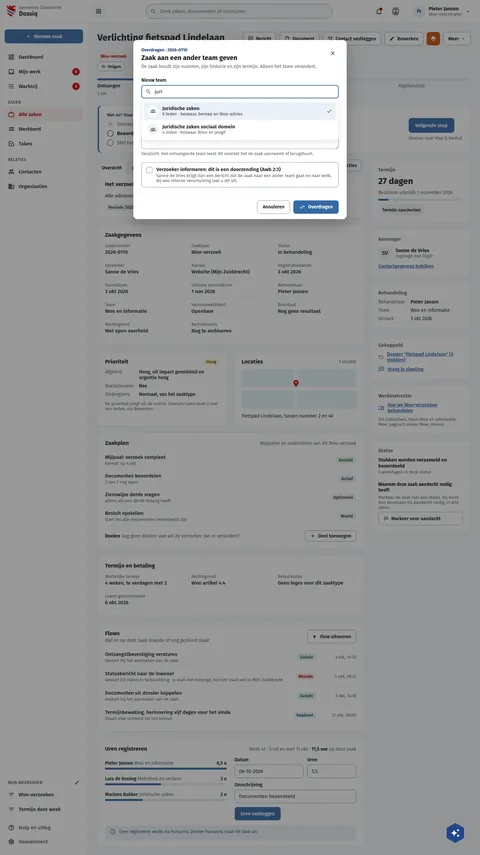
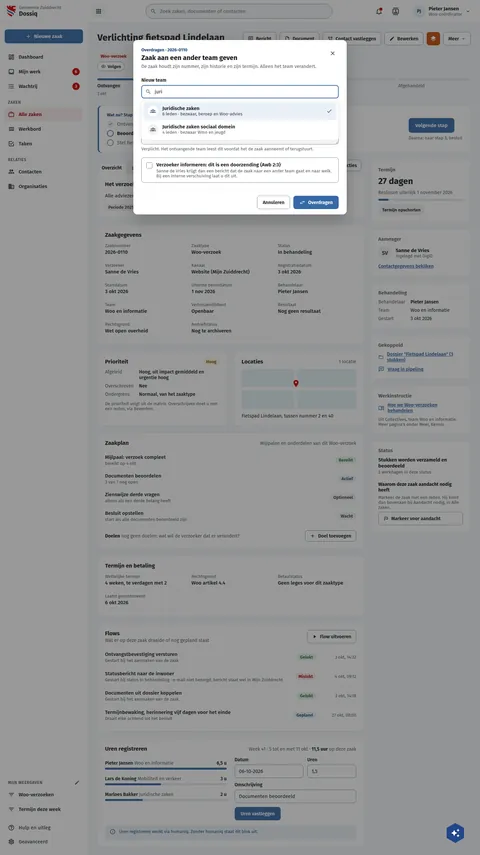
fix(screens): DqOverdragen's reason sits on the boards' normal leading
Assisted-by: ClaudeCode:claude-opus-5-5

Changed region(s): [[0.2812, 0.152, 0.7188, 0.2737]]

diff --git a/preview/screens/boards/DqOverdragen.html b/preview/screens/boards/DqOverdragen.html
@@ -331,7 +331,7 @@ a{color:var(--sc-primary, #3669a5)}a:hover{color:var(--sc-primary-deep, #234a78)
           </ul></span>
           <span style="font-size: 13px; color: var(--sc-work-muted, #5e6168)">Nu bij Woo en informatie. Het nieuwe team kiest zelf een behandelaar.</span>
         </div>
-        <div style="display: flex; flex-direction: column; gap: 6px"><label for="ov-reden" style="font-size: 14px; font-weight: 600">Waarom de zaak verhuist</label><textarea id="ov-reden" rows="3" required style="box-sizing: border-box; width: 100%; padding: 10px 12px; border: 1px solid var(--sc-work-field, #828a95); border-radius: 8px; font: 400 15px var(--sc-font, 'Fira Sans'), sans-serif; color: var(--sc-work-ink, #1b1c1d); line-height: 1.5; resize: vertical">De mail van de aannemer raakt een lopend geschil over de planning. Juridische zaken beoordeelt die eerst.</textarea><span style="font-size: 13px; color: var(--sc-work-muted, #5e6168)">Verplicht. Het ontvangende team leest dit voordat het de zaak aanneemt of terugstuurt.</span></div>
+        <div style="display: flex; flex-direction: column; gap: 6px"><label for="ov-reden" style="font-size: 14px; font-weight: 600">Waarom de zaak verhuist</label><textarea id="ov-reden" rows="3" required style="box-sizing: border-box; width: 100%; padding: 10px 12px; border: 1px solid var(--sc-work-field, #828a95); border-radius: 8px; font: 400 15px var(--sc-font, 'Fira Sans'), sans-serif; color: var(--sc-work-ink, #1b1c1d); resize: vertical">De mail van de aannemer raakt een lopend geschil over de planning. Juridische zaken beoordeelt die eerst.</textarea><span style="font-size: 13px; color: var(--sc-work-muted, #5e6168)">Verplicht. Het ontvangende team leest dit voordat het de zaak aanneemt of terugstuurt.</span></div>
         <label style="display: flex; gap: 12px; align-items: flex-start; padding: 12px 14px; border-radius: 8px; border: 1px solid var(--sc-work-field, #828a95); cursor: pointer"><input type="checkbox" style="width: 18px; height: 18px; margin: 2px 0 0; accent-color: var(--sc-primary, #3669a5); flex: none"><span style="display: flex; flex-direction: column; gap: 2px"><strong style="font-size: 15px; font-weight: 600">Verzoeker informeren: dit is een doorzending (Awb 2:3)</strong><span style="font-size: 13px; color: var(--sc-work-muted, #5e6168)">Sanne de Vries krijgt dan een bericht dat de zaak naar een ander team gaat en naar welk. Bij een interne verschuiving laat u dit uit.</span></span></label>
       </form>
       <div style="display: flex; flex-wrap: wrap; justify-content: flex-end; gap: 10px; padding: 16px 24px; border-top: 1px solid var(--sc-work-soft, #eef0f3)">

diff --git a/screens-src/zuiddrecht/DqOverdragen.dc.html b/screens-src/zuiddrecht/DqOverdragen.dc.html
@@ -181,7 +181,7 @@ a{color:#3669a5}a:hover{color:#234a78}
           </ul></span>
           <span style="font-size: 13px; color: #5e6168">Nu bij Woo en informatie. Het nieuwe team kiest zelf een behandelaar.</span>
         </div>
-        <div style="display: flex; flex-direction: column; gap: 6px"><label for="ov-reden" style="font-size: 14px; font-weight: 600">Waarom de zaak verhuist</label><textarea id="ov-reden" rows="3" required style="box-sizing: border-box; width: 100%; padding: 10px 12px; border: 1px solid #828a95; border-radius: 8px; font: 400 15px 'Fira Sans', sans-serif; color: #1b1c1d; line-height: 1.5; resize: vertical">De mail van de aannemer raakt een lopend geschil over de planning. Juridische zaken beoordeelt die eerst.</textarea><span style="font-size: 13px; color: #5e6168">Verplicht. Het ontvangende team leest dit voordat het de zaak aanneemt of terugstuurt.</span></div>
+        <div style="display: flex; flex-direction: column; gap: 6px"><label for="ov-reden" style="font-size: 14px; font-weight: 600">Waarom de zaak verhuist</label><textarea id="ov-reden" rows="3" required style="box-sizing: border-box; width: 100%; padding: 10px 12px; border: 1px solid #828a95; border-radius: 8px; font: 400 15px 'Fira Sans', sans-serif; color: #1b1c1d; resize: vertical">De mail van de aannemer raakt een lopend geschil over de planning. Juridische zaken beoordeelt die eerst.</textarea><span style="font-size: 13px; color: #5e6168">Verplicht. Het ontvangende team leest dit voordat het de zaak aanneemt of terugstuurt.</span></div>
         <label style="display: flex; gap: 12px; align-items: flex-start; padding: 12px 14px; border-radius: 8px; border: 1px solid #828a95; cursor: pointer"><input type="checkbox" style="width: 18px; height: 18px; margin: 2px 0 0; accent-color: #3669a5; flex: none"><span style="display: flex; flex-direction: column; gap: 2px"><strong style="font-size: 15px; font-weight: 600">Verzoeker informeren: dit is een doorzending (Awb 2:3)</strong><span style="font-size: 13px; color: #5e6168">Sanne de Vries krijgt dan een bericht dat de zaak naar een ander team gaat en naar welk. Bij een interne verschuiving laat u dit uit.</span></span></label>
       </form>
       <div style="display: flex; flex-wrap: wrap; justify-content: flex-end; gap: 10px; padding: 16px 24px; border-top: 1px solid #eef0f3">
